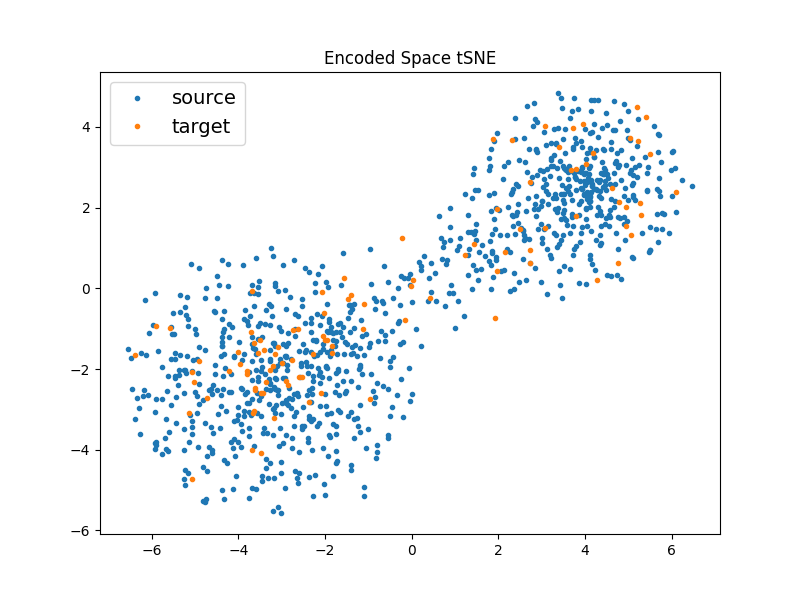
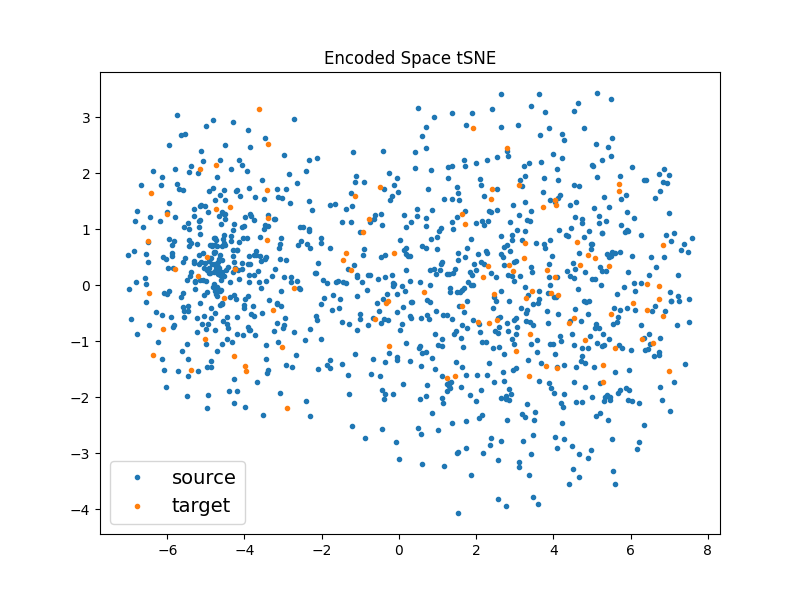
Updates to exps

diff --git a/exp4/kerasSecondaryContactDataset.py b/exp4/kerasSecondaryContactDataset.py
@@ -1,0 +1,54 @@
+import sys, os
+sys.path.append(os.path.abspath(".."))
+
+from tensorflow import keras
+from tensorflow.keras.utils import to_categorical
+import numpy as np
+from src.data.simulation import Simulations
+from src.data.secondaryContact import SecondaryContactConfig
+from tskit import TreeSequence, Variant
+from scipy.spatial.distance import euclidean
+
+def getGenotypeMatrix(ts: TreeSequence, nSnps: int, transpose=False, multichannel=False) -> np.ndarray:
+    var = Variant(ts, samples=ts.samples()) 
+    if transpose:
+        shape = (nSnps, len(ts.samples()))
+    else:
+        shape = (len(ts.samples()), nSnps)
+    mat = np.empty(shape=shape)
+    for site in range(nSnps):
+        var.decode(site)
+        if transpose:
+            mat[site, :] = var.genotypes
+        else:
+            mat[:, site] = var.genotypes
+    if multichannel:
+        channel1 = mat[:len(ts.samples())//2, :]
+        channel2 = mat[len(ts.samples())//2:, :]
+        ref_row = channel1[0]
+        distances=[euclidean(ref_row, row) for row in channel1]
+        sorted_indices = np.argsort(distances)
+        channel1_sorted = channel1[sorted_indices]
+        ref_row = channel2[0]
+        distances=[euclidean(ref_row, row) for row in channel2]
+        sorted_indices = np.argsort(distances)
+        channel2_sorted = channel2[sorted_indices]
+        mat = np.stack([channel1_sorted, channel2_sorted], axis=-1) # might want a different axis?
+
+    return mat
+
+class Dataset():
+    def __init__(self, path: str, nSnps: int, transpose=False, multichannel=False):
+        with open(path, "rb") as fh:
+            jsonData = fh.read()
+        self.simulations = Simulations[SecondaryContactConfig].model_validate_json(jsonData)
+        snpMatrices = []
+        migrationStates = []
+        for ix, s in enumerate(self.simulations):
+            ts = s.treeSequence 
+            snpMatrices.append(getGenotypeMatrix(ts, nSnps, transpose=transpose, multichannel=multichannel))
+            migrationStates.append(self.simulations[ix].data["migrationState"])
+        self.snps = np.array(snpMatrices)
+        # self.migrationStates = np.array(migrationStates)
+        self.migrationStates = to_categorical(migrationStates, num_classes=2)
+        self.shape = self.snps.shape[1:]

diff --git a/exp4/conv2d_fine_train.py b/exp4/conv2d_fine_train.py
@@ -1,0 +1,43 @@
+import sys, os
+sys.path.append(os.path.abspath(".."))
+
+from tensorflow import keras
+from tensorflow import Variable
+from keras.optimizers.legacy import Adam
+from adapt.parameter_based import FineTuning
+from adapt.utils import UpdateLambda
+from scipy.spatial.distance import euclidean
+import numpy as np
+
+from kerasSecondaryContactDataset import Dataset
+from src.kerasPredictSoftmax import predict
+from conv2d_models import getEncoder, getTask
+from src.kerasPlot import plotEncoded, plotFineTrainingAcc, plotFineTrainingLoss
+
+prefix = "out/2d_fine"
+
+snps = 1500
+
+train = Dataset("../secondaryContact3/secondaryContact3-1000.json", snps, multichannel=True)
+validation = Dataset("secondaryContact3/secondaryContact3-val-100.json", snps, multichannel=True)
+
+model = FineTuning(
+    encoder=getEncoder(shape=train.shape),
+    task=getTask(),
+    optimizer=Adam(0.0001),
+    loss="categorical_crossentropy",
+    metrics=["accuracy"])
+history = model.fit(train.snps, train.migrationStates, epochs=50, batch_size=32, 
+        validation_data=(validation.snps, validation.migrationStates)) 
+model.save(f"{prefix}.keras")
+
+test = Dataset("../secondaryContact3/secondaryContact3-test-100.json", snps, multichannel=True)
+ghost = Dataset("../ghost3/ghost3-test-100.json", snps, multichannel=True)
+
+plotFineTrainingAcc(model, f"{prefix}_training_acc.png")
+plotFineTrainingLoss(model, f"{prefix}_training_loss.png")
+
+np.savetxt(f"{prefix}_cm.txt", predict(model, test), fmt="%1.0f")
+np.savetxt(f"{prefix}_cm-mispec.txt", predict(model, ghost), fmt="%1.0f")
+
+plotEncoded(model, source=train, target=ghost, outputpath=f"{prefix}_encoded_tSNE.png")

diff --git a/exp4/conv2d_models.py b/exp4/conv2d_models.py
@@ -1,0 +1,24 @@
+from tensorflow import keras
+from keras import Sequential
+from keras.layers import Input, Conv2D, MaxPool2D, Flatten, Dense  
+
+def getEncoder(shape):
+    model = Sequential()
+    model.add(Input(shape=shape))
+    model.add(Conv2D(10, [3,3], activation="relu"))
+    model.add(MaxPool2D([2,2]))
+    model.add(Flatten())
+    model.add(Dense(20, activation="relu"))
+    return model
+
+def getTask():
+    model = Sequential()
+    model.add(Dense(50, activation='relu'))
+    model.add(Dense(2, activation="softmax"))
+    return model
+
+def getDiscriminator():
+    model = Sequential()
+    model.add(Dense(100, activation="relu"))
+    model.add(Dense(1, activation="sigmoid"))
+    return model

diff --git a/expNotes.md b/expNotes.md
@@ -1,6 +1,16 @@
 # exp1
 ghost/secondaryContact3
 Flagel net + single 2d conv layer, 3000 snps, learning 0.00001, adaptive lambda with max of 10  
+Result: good but FineTuning performs better than it should with 2d network
 
 # exp2
 same as 1 but with 1500 snps and learning rate of 0.0001
+Result: good but FineTuning performs better than it should with 2d network
+
+
+# exp3
+same as 2 but with Megan's version of kerasSecondaryContactDataset
+Result: good but FineTuning performs better than it should with 2d network
+
+# exp4 
+same as 3 but run with adapt version 0.4.2
